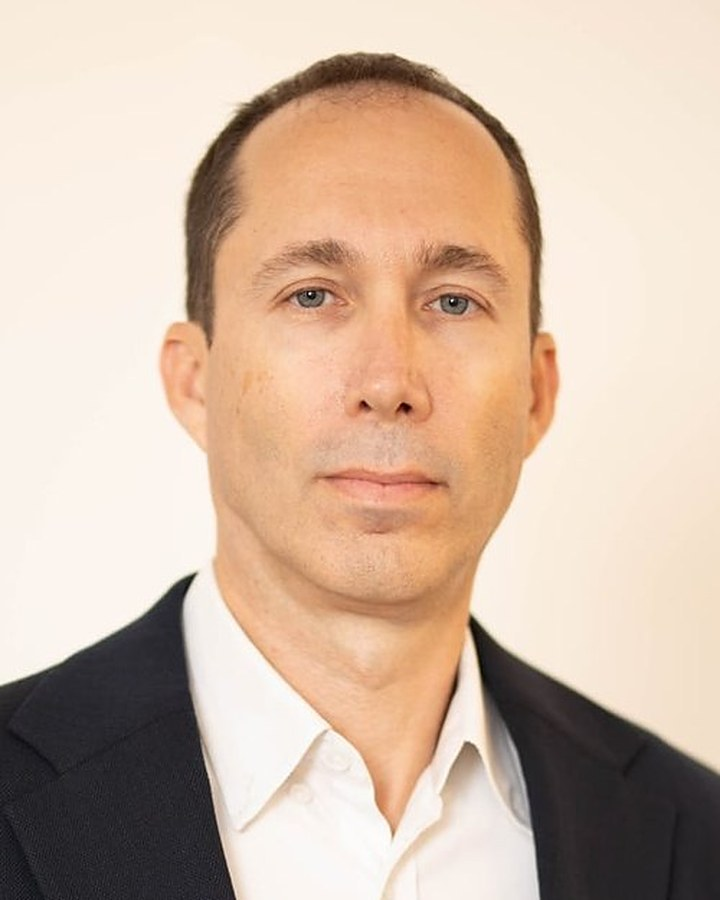
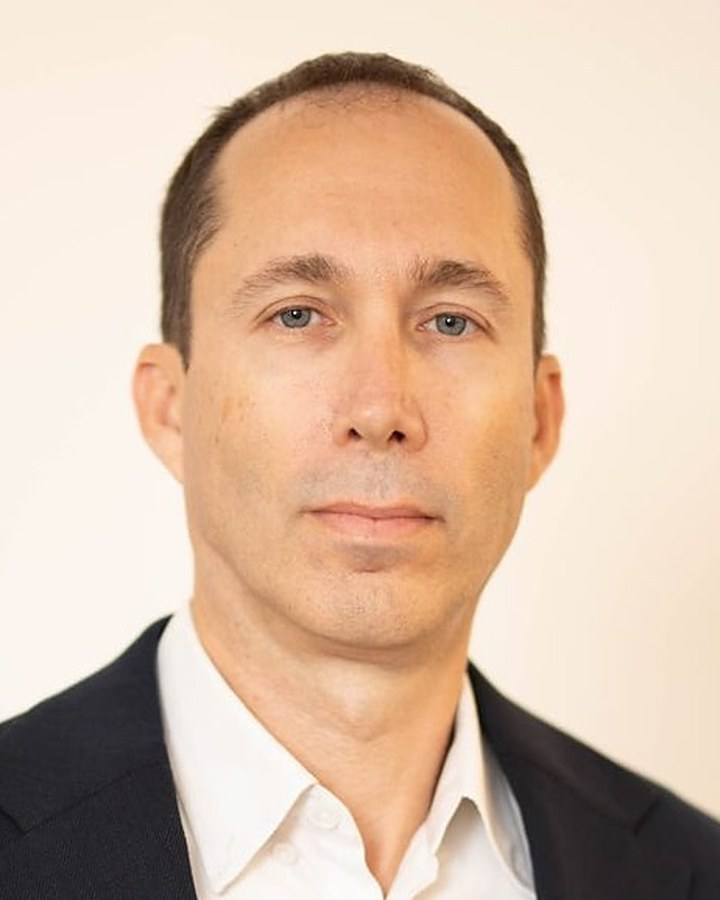
Notion webinar: Roy and Asaf cropped at the same face distance

diff --git a/notion-webinar/index.html b/notion-webinar/index.html
@@ -378,8 +378,8 @@ footer{padding:clamp(72px,9vw,120px) 0 40px;overflow:hidden}
         <div class="cube-wrap cube-hero"><div class="cube"><i class="f1"><img src="/notion-webinar/assets/notion-logo.svg" alt=""></i><i class="f2"><img src="/notion-webinar/assets/notion-logo.svg" alt=""></i><i class="f3"><img src="/notion-webinar/assets/notion-logo.svg" alt=""></i><i class="f4"><img src="/notion-webinar/assets/notion-logo.svg" alt=""></i><i class="f5"><img src="/notion-webinar/assets/notion-logo.svg" alt=""></i><i class="f6"><img src="/notion-webinar/assets/notion-logo.svg" alt=""></i></div></div>
       </div>
       <div class="cards-layer">
-        <div class="photo-card pc1"><img src="/notion-webinar/assets/asaf-l.jpg" alt="" width="720" height="900"><b>עו״ד אסף אברמזון</b><small>מייסד שותף ומנכ״ל LEGAL MIND</small></div>
-        <div class="photo-card pc2"><img src="/notion-webinar/assets/roi-l.jpg" alt="" width="720" height="900"><b>עו״ד רועי נימצוביץ׳</b><small>מייסד שותף LEGAL MIND</small></div>
+        <div class="photo-card pc1"><img src="/notion-webinar/assets/asaf-l.jpg?v=2" alt="" width="720" height="900"><b>עו״ד אסף אברמזון</b><small>מייסד שותף ומנכ״ל LEGAL MIND</small></div>
+        <div class="photo-card pc2"><img src="/notion-webinar/assets/roi-l.jpg?v=2" alt="" width="720" height="900"><b>עו״ד רועי נימצוביץ׳</b><small>מייסד שותף LEGAL MIND</small></div>
         <div class="photo-card pc3"><img src="/notion-webinar/assets/lior-l.jpg" alt="" width="720" height="900"><b>ליאור פרייס</b><small>מפתח אוטומציות</small><span class="gst">משתתף אורח</span></div>
       </div>
     </div>
@@ -470,9 +470,9 @@ footer{padding:clamp(72px,9vw,120px) 0 40px;overflow:hidden}
     <h2 class="h2 rv" id="hosts-h">מי מעביר.</h2>
     <p class="lead rv" style="--d:.1s">אסף ורועי, מייסדי LEGAL MIND, חברים בוועדת הבינה המלאכותית של לשכת עורכי הדין ומטמיעים בינה מלאכותית בעולם המשפט והנדל״ן. איתם: ליאור פרייס, מפתח אוטומציות.</p>
     <div class="hosts">
-      <article class="host rv" style="--d:.1s"><div class="ph"><img src="/notion-webinar/assets/asaf-l.jpg" alt="עו״ד אסף אברמזון" width="720" height="900" loading="lazy"></div>
+      <article class="host rv" style="--d:.1s"><div class="ph"><img src="/notion-webinar/assets/asaf-l.jpg?v=2" alt="עו״ד אסף אברמזון" width="720" height="900" loading="lazy"></div>
         <h3>עו״ד אסף אברמזון</h3><p>מייסד שותף ומנכ״ל LEGAL MIND. מתמחה בהטמעת AI ובבניית תהליכי עבודה חכמים לעולם המשפט.</p></article>
-      <article class="host rv" style="--d:.2s"><div class="ph"><img src="/notion-webinar/assets/roi-l.jpg" alt="עו״ד רועי נימצוביץ׳" width="720" height="900" loading="lazy"></div>
+      <article class="host rv" style="--d:.2s"><div class="ph"><img src="/notion-webinar/assets/roi-l.jpg?v=2" alt="עו״ד רועי נימצוביץ׳" width="720" height="900" loading="lazy"></div>
         <h3>עו״ד רועי נימצוביץ׳</h3><p>מייסד שותף LEGAL MIND. 20 שנים בעולם המשפט, בעסקאות מורכבות, פיננסים וליטיגציה.</p></article>
       <article class="host rv" style="--d:.3s"><div class="ph"><img src="/notion-webinar/assets/lior-l.jpg" alt="ליאור פרייס" width="720" height="900" loading="lazy"></div>
         <h3>ליאור פרייס</h3><p>מפתח אוטומציות. יציג מערכת לניהול משרד עו״ד ב-Notion ואת האוטומציות שמחברות אותה לכלים.</p><span class="gst">משתתף אורח</span></article>
